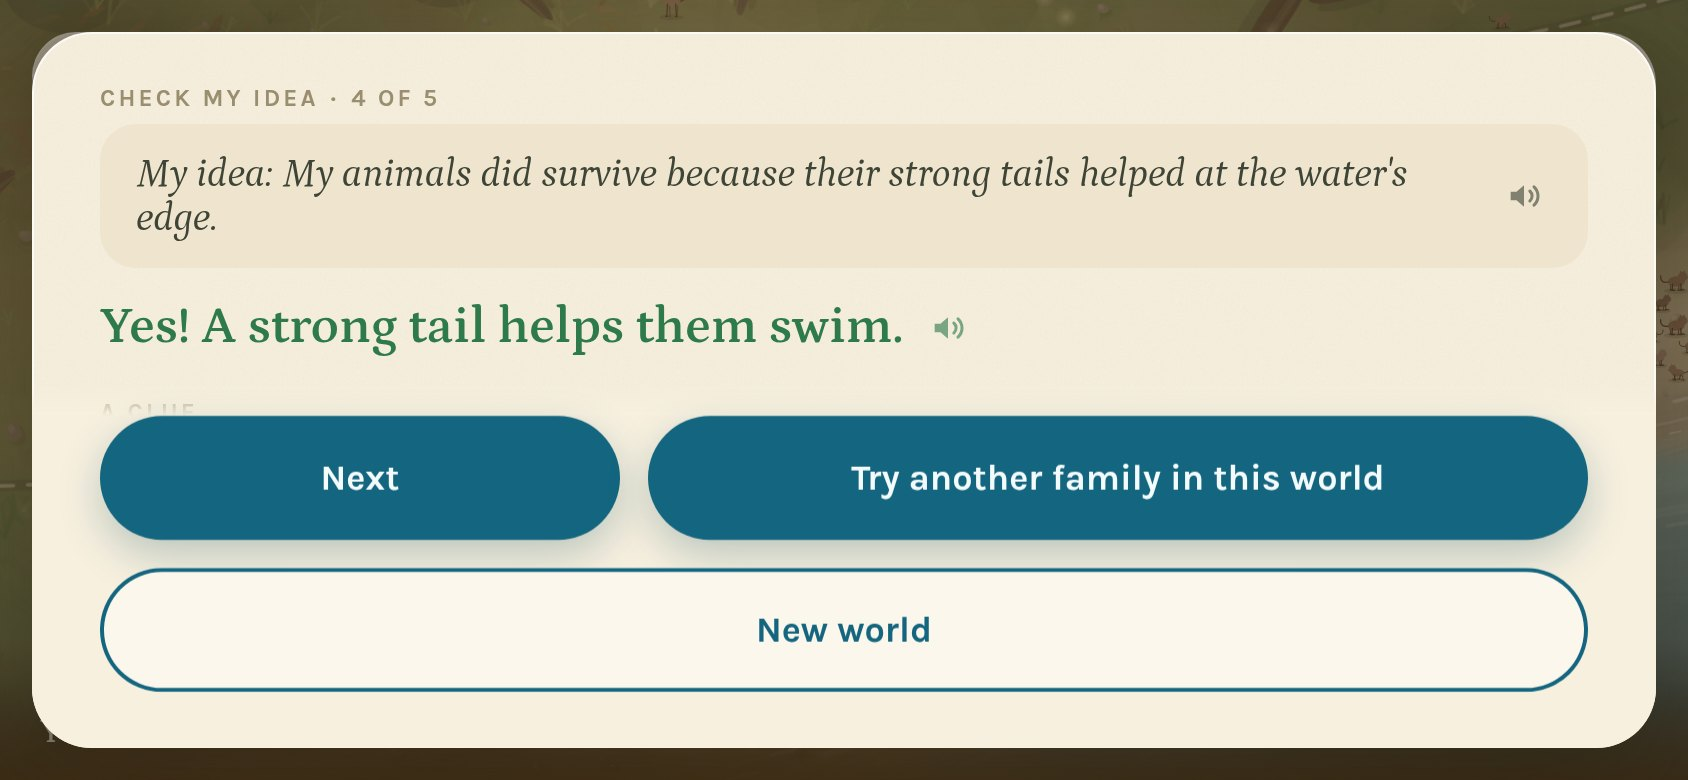
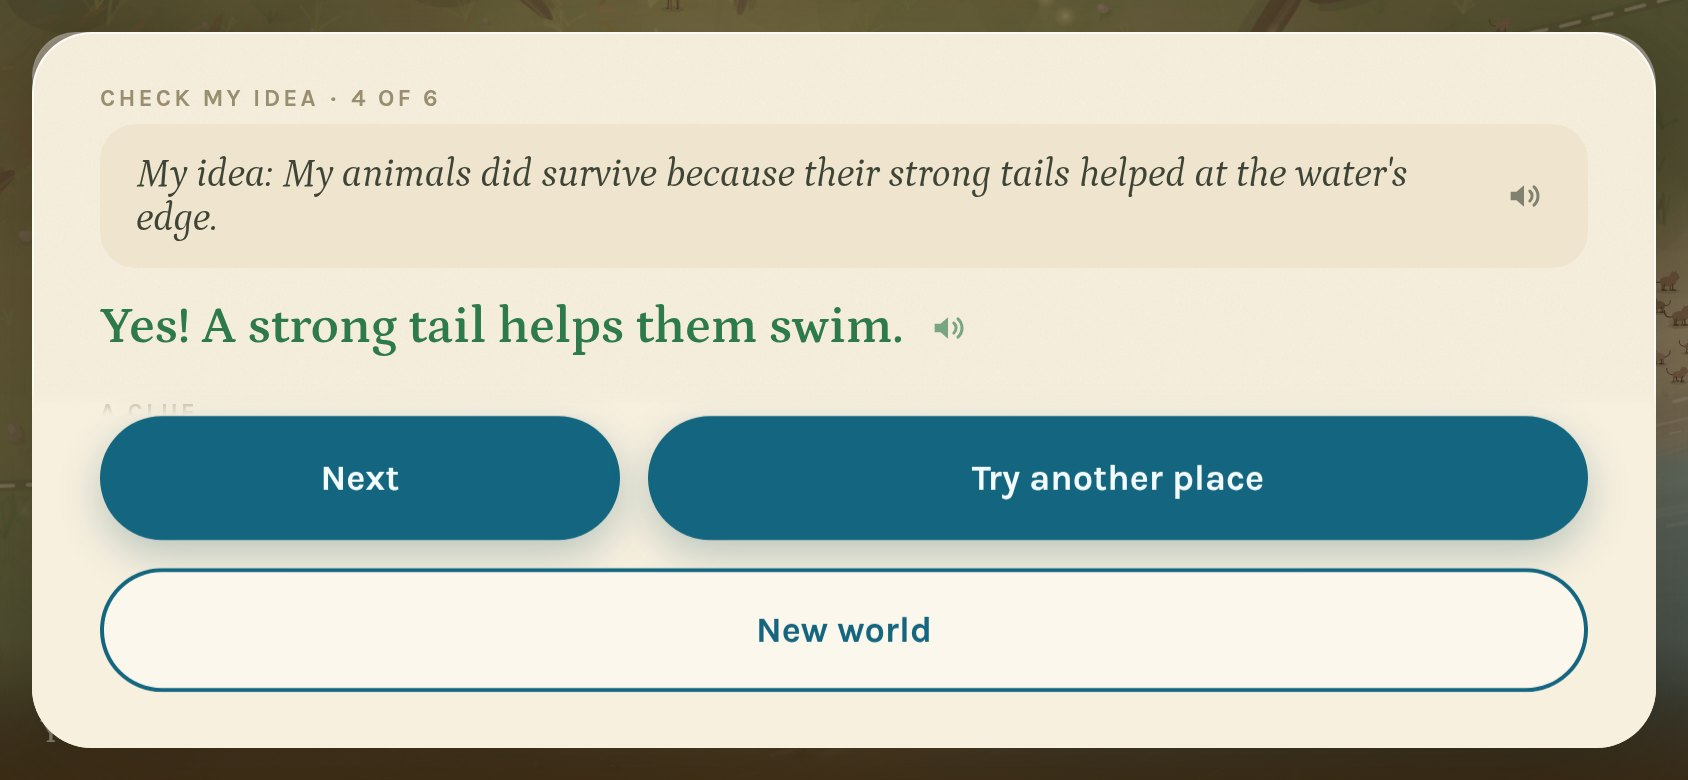
Round 5, Part 5: Try another place
Scope decision 76. After the reveal, "Try another place" starts a new
story in the same world from the same family: the same seed run again
to the generation the story began at (the same world, since following
never touches the biology), the same first animal, its name kept, and
"Where will your Mossfoot family live?" at once, so a child can compare
places. It takes the place of "Try another family" after any story
with a place chosen; the teacher demo keeps "Try another family".
"New world" stays.

New moment try-another-place; ending-check, ending-reveal and
story-card shot again with the new button. Tests: game 30 (1 new: the
replayed world is the same world).

Claude-Session: https://claude.ai/code/session_01GSopAEV6FFZ4i4mLAerJib

Changed region(s): [[0.4929, 0.5846, 0.8318, 0.6462], [0.9858, 0.3692, 1.0, 0.4308]]

diff --git a/game/src/main.js b/game/src/main.js
@@ -341,6 +341,7 @@ export class Game {
     this.logShownAt = 0;
     this.bloomLine = this.speakable($("bloom-line"));
     this.againEl = /** @type {HTMLButtonElement} */ ($("again"));
+    this.anotherPlaceEl = /** @type {HTMLButtonElement} */ ($("another-place"));
     this.newWorldEl = /** @type {HTMLButtonElement} */ ($("new-world"));
     // "This world is nearly over. Start a new world?" (scope decision 64)
     this.nearlyEl = $("nearly-over");
@@ -715,7 +716,11 @@ export class Game {
    * The first tap: follow the family of the tapped animal's ancestor a few
    * generations back. The child names it first; then time starts.
    */
-  begin(animal) {
+  /**
+   * @param {any} animal the animal tapped
+   * @param {null|string} [name] the family's name already ("Try another place", scope decision 76): no naming then
+   */
+  begin(animal, name = null) {
     const f = this.story.begin(animal.id);
     this.collectionButtonEl.hidden = true;
     this.closeCollection(true);
@@ -730,7 +735,13 @@ export class Game {
     this.exploring = false; this.visiting = null; // the child chose this family: the camera goes to it
     this.centerOnGroup();
     this.updateHud();
-    this.openNaming();
+    if (!name) { this.openNaming(); return; }
+    // The same family again (scope decision 76): its name stays, and the first choice comes at once.
+    this.story.name = name;
+    this.setHomeLabel();
+    this.updateHud();
+    this.updatePortrait();
+    if (this.story.phase === "place") this.openPlace();
   }
 
   /* ================= naming the family (Step 5, names.js) ================= */
@@ -1835,7 +1846,11 @@ export class Game {
       collection: COLLECTION_TITLE }[name];
     this.stepCountEl.textContent = `${k + 1} of ${this.endingSteps.length}`;
     this.endingNextEl.hidden = name === "idea" || k === this.endingSteps.length - 1;
-    this.againEl.hidden = this.newWorldEl.hidden = !this.ideaAnswered;
+    // After a story with a place chosen, "Try another place" (scope decision 76); in the teacher demo, "Try another family".
+    const placed = !!(this.story.home ?? this.story.homeTries.length);
+    this.anotherPlaceEl.hidden = !this.ideaAnswered || !placed;
+    this.againEl.hidden = !this.ideaAnswered || placed;
+    this.newWorldEl.hidden = !this.ideaAnswered;
     this.nearlyEl.hidden = true;
     this.endingEl.querySelector(".card").scrollTop = 0;
     if ((name === "reveal" && this.story.reveal) || (name === "result" && this.story.won)) this.sound.revealChord(0.4);
@@ -2067,15 +2082,40 @@ export class Game {
     });
   }
 
+  /**
+   * "Try another place" (scope decision 76): a new story in the same world, from the same family, with its name, and
+   * "Where will your … family live?" again, so the child can compare places (or try the same place another way). The
+   * world starts again where this story began: the same seed, run on to the same generation, which the engine makes
+   * the same world, since following never touches the biology.
+   */
+  anotherPlace(btn = this.anotherPlaceEl) {
+    const s = this.story, from = s.startGeneration, first = s.firstId, name = s.name;
+    this.busy(btn, "Going back…", () => {
+      this.endingEl.hidden = true;
+      const bridge = this.makeWorld(this.seed), herd = new Herd(this.world, 7919);
+      herd.placeFounders(bridge);
+      while (bridge.generation < from) {
+        const ev = bridge.step();
+        if (!ev) break;
+        herd.applyGeneration(ev, bridge, 0);
+      }
+      this.start(bridge, herd);
+      // No arrival: the family is chosen already, and the sheet comes at once.
+      if (this.arrival) { this.arrival.t0 = performance.now() - this.arrival.dur; this.endArrival(); }
+      const animal = this.herd.animals.get(first);
+      if (animal) this.begin(animal, name);
+    });
+  }
+
   /** "This world is nearly over. Start a new world?", with "New world" and a small "Keep going anyway", in place of the ending's buttons. */
   askNearlyOver() {
-    this.againEl.hidden = this.newWorldEl.hidden = this.endingNextEl.hidden = true;
+    this.againEl.hidden = this.anotherPlaceEl.hidden = this.newWorldEl.hidden = this.endingNextEl.hidden = true;
     this.nearlyEl.hidden = false;
   }
 
   /** The tapped button says what is happening, and the ending's buttons wait, while the page repaints; then it happens. */
   busy(btn, text, then) {
-    const label = btn.textContent, all = [this.againEl, this.newWorldEl, this.nearlyNewEl, this.nearlyKeepEl];
+    const label = btn.textContent, all = [this.againEl, this.anotherPlaceEl, this.newWorldEl, this.nearlyNewEl, this.nearlyKeepEl];
     btn.textContent = text;
     for (const b of all) b.disabled = true;
     setTimeout(() => {
@@ -3070,6 +3110,7 @@ export class Game {
     this.doc.getElementById("average-close").addEventListener("click", () => this.closeAverage());
     this.doc.addEventListener("keydown", (e) => { if (e.key === "Escape") { this.closeCard(); this.closeAverage(); this.closeGuide(); this.closeCollection(); } });
     this.againEl.addEventListener("click", () => this.anotherFamily());
+    this.anotherPlaceEl.addEventListener("click", () => this.anotherPlace());
     // Sound starts with the first tap anywhere (iPads allow it only then), and rests while the page is hidden.
     const unlock = () => this.sound.unlock();
     for (const type of ["pointerdown", "touchend", "click", "keydown"]) this.doc.addEventListener(type, unlock, { capture: true, passive: true });

diff --git a/game/src/moments.js b/game/src/moments.js
@@ -41,7 +41,7 @@ export const MOMENTS = [
   "same", "back", "go-back", "so-far", "another-family", "nearly-over",
   "reason", "why", "why-answer", "told", "type-name", "my-name", "average",
   "ending-idea", "ending-check", "ending-reveal", "story-card", "discovery", "guide", "leaves", "map",
-  "win", "still-changing", "collection", "chosen-by-place",
+  "win", "still-changing", "collection", "chosen-by-place", "try-another-place",
 ];
 
 /**
@@ -301,6 +301,11 @@ const MOMENT = {
     families: FROM_OTHERS, policies: ["active", "passive"],
     at: (s, ev, b, what) => what === null && s.phase === "watch" && s.placeChoseNow.length > 0 && { chosen: s.placeChoseNow.map((p) => p.t) },
   },
+  /**
+   * "Try another place" (scope decision 76): after the win, the same family again in the same world, its name kept,
+   * and "Where will your … family live?" again, once every card has a baby of the family.
+   */
+  "try-another-place": { families: FROM_OTHERS, policies: ["wise", "active", "passive"], at: (s, ev, b, what) => what === "ended" && s.won },
   /**
    * The collection after the win (scope decision 74): the ending's last step, the twelve cards with the animal the line
    * just became marked "New!", on a new iPad: "You've evolved 1 of 12."
@@ -758,6 +763,19 @@ export async function goToMoment(game, moment) {
     // The ending opens on its first step, the line's home (scope decision 73).
     G.endingAt = null;
     G.showEnding();
+  } else if (moment === "try-another-place") {
+    // The child gives an idea, then taps "Try another place": the sheet comes back once every card has its baby.
+    G.endingAt = null;
+    G.showEnding();
+    G.showStep("idea");
+    const t = truthOf(G.story);
+    G.ideaPicks.t.value = String(t.helper ?? t.hurter ?? 5);
+    G.ideaPicks.zone.value = String(t.zone);
+    G.ideaChanged();
+    G.answerIdea();
+    G.showStep("collection");
+    G.anotherPlace();
+    for (let k = 0; k < 600 && !(G.placing && G.placeCardEls.every((el) => el.baby !== null || el.hidden)); k++) await frame();
   } else if (moment === "collection") {
     // The story ended with the win as the game has it (its animal joined the collection): the ending's last step.
     G.endingAt = null;

diff --git a/game/test/win.test.js b/game/test/win.test.js
@@ -141,3 +141,29 @@ test("chosen by the place: a trait that helps there, risen in the line without a
   assert.equal(N.placeChoseLine(0, [{ trait: "curved_claws", dir: 1 }, { trait: "toe_webbing", dir: -1 }, { trait: "streamlined_body", dir: -1 }]),
     "The trees chose curved claws, toes without webbing and a round body too.");
 });
+
+test("try another place: the same seed run on to a story's start is the same world, so the same family can choose again", async () => {
+  const { Bridge } = await import("../src/bridge.js");
+  const { Story } = await import("../src/story.js");
+  // A story played to its end, and the world run again with no one following, to the story's last generation.
+  const played = Bridge.fromAncestor(13), story = new Story(played, { places: true });
+  story.begin(played.families.founding[1].ids[0]);
+  while (story.phase !== "ended") {
+    if (story.phase === "place") { if (story.placeCards()[2]) { story.choosePlace(2); continue; } }
+    else if (story.phase === "choice") { story.follow(story.options.find((o) => story.helps(o.v)), false); continue; }
+    story.afterGeneration(played.step());
+  }
+  const again = Bridge.fromAncestor(13);
+  while (again.generation < played.generation) again.step();
+  // Following never touches the biology: the same animals, with the same bodies, live in both.
+  const body = (b) => b.livingAnimals().map((a) => `${a.id}:${Array.from(a.genome).map((x) => x.toFixed(6)).join(",")}`).sort();
+  assert.deepEqual(body(again), body(played));
+  // The story's first animal is there at its start, so "Try another place" begins the same family again.
+  const atStart = Bridge.fromAncestor(13);
+  while (atStart.generation < story.startGeneration) atStart.step();
+  assert.ok(atStart.get(story.firstId));
+  const replay = new Story(atStart, { places: true });
+  replay.begin(story.firstId);
+  assert.equal(replay.phase, "place");
+  assert.equal(replay.ownFounding, story.ownFounding);
+});

diff --git a/game/moments.html b/game/moments.html
@@ -107,6 +107,7 @@
     <li><a data-moment="map" href="./?moment=map"><b>The map</b><span>Zoomed out: the places' names and the borders between them.</span></a></li>
     <li><a data-moment="win" href="./?moment=win"><b>The win</b><span>Your line fits its home: "You did it!", the animal it became, what you followed and why.</span></a></li>
     <li><a data-moment="chosen-by-place" href="./?moment=chosen-by-place"><b>Chosen by the place</b><span>A trait that helps here rose in your line without a follow: its own chip, and “The water is choosing too.”</span></a></li>
+    <li><a data-moment="try-another-place" href="./?moment=try-another-place"><b>Try another place</b><span>After the win: the same family, its name kept, chooses where to live again.</span></a></li>
     <li><a data-moment="collection" href="./?moment=collection"><b>The collection</b><span>After the win: the twelve animals, the one your line became marked “New!”, the rest mystery cards.</span></a></li>
     <li><a data-moment="still-changing" href="./?moment=still-changing&amp;length=25"><b>Still changing</b><span>The story's last generation, short of the win: "Keep going next time?" and the animal it looks most like.</span></a></li>
   </ol>

diff --git a/design/compare.html b/design/compare.html
@@ -111,6 +111,7 @@
     ["map", "The map", "New with the next round: the places' names and the borders between them.", false, R],
     ["chosen-by-place", "Chosen by the place", "New with Round 5: a trait that helps rose in your line without a follow, “Strong tail: chosen by the water”.", false, G],
     ["win", "The win", "New with Round 5: your line fits its home. “You did it!”, the animal it became, what you followed and why.", false, G],
+    ["try-another-place", "Try another place", "New with Round 5: after the win, the same family in the same world chooses where to live again.", false, G],
     ["collection", "The collection", "New with Round 5: after the win, the twelve animals you can become, yours marked “New!”, the rest mystery cards.", false, G],
     ["still-changing", "Still changing", "New with Round 5: the story's last generation, short of the win: “Keep going next time?”", false, G],
     ["ending", "The ending: what happened", "The start and the end, your line baby by baby, your line and your relatives here; since Round 5 after the win."],

diff --git a/game/index.html b/game/index.html
@@ -269,6 +269,8 @@
       </section>
       <div class="buttons">
         <button id="ending-next" type="button">Next</button>
+        <!-- After a story with a place chosen: the same family again, in the same world, choosing its place again (scope decision 76). -->
+        <button id="another-place" type="button" hidden>Try another place</button>
         <button id="again" type="button" hidden>Try another family in this world</button>
         <button id="new-world" type="button" hidden>New world</button>
         <!-- "Try another family" with fewer than 25 generations of the story left in this world (scope decision 64). -->

diff --git a/LINEAGE_M2_CLASSROOM_SCOPE.md b/LINEAGE_M2_CLASSROOM_SCOPE.md
@@ -784,6 +784,14 @@ LINEAGE should feel like a quiet nature documentary. It is set at golden hour an
    - *Frame times (as decision 73): `chosen-by-place` 36.0 ms (206.4 with a 4× slower CPU) against main's `generation` 41.3 (209.4).*
    - *Checked: 29 game tests, 1 new (each place chip is a trait that helps there, the way it helps, never one the child followed, shown once; its lines short; a win with place chips says them). The lines read with the longest family name.*
 
+76. **"Try another place"** (2026-10-02, the architect's Round 5, Part 5; built by Claude Code).
+   - **What it does** (`main.js` `anotherPlace`). After the reveal (once the child gave an idea, like the other buttons), "Try another place" starts a new story in the same world from the same family: the same seed, run again to the generation the story began at, which the engine makes the same world (following never touches the biology; a test checks it), and the same first animal tapped. The family keeps its name, so there is no naming, and "Where will your … family live?" comes at once: Choice 1 again, to compare places, or to try the same place another way. No arrival mist. "New world" stays.
+   - **It takes the place of "Try another family in this world"** after any story with a place chosen, so the ending offers two ways on: "Try another place" and "New world". The teacher demo, which has no place choice, keeps "Try another family" (and its "This world is nearly over" question).
+   - **Moment:** new `try-another-place` (after the win in seed 13: the sheet again, "Where will your … family live?", once every card has its baby). `ending-check`, `ending-reveal` and `story-card` shot again with the new button.
+   - *Frame times (as decision 73): `try-another-place` 33.8 ms (176.1 with a 4× slower CPU) against main's `choose-place` 35.4 (163.3), the same sheet.*
+   - *Checked: 30 game tests, 1 new (the same seed run again to a story's last generation, with no one following, has the same animals with the same bodies as the world the story ran; and the story's first animal is there at its start, so the same family begins again, at the place choice).*
+   - **For the architect.** Bring back "Try another family" beside "Try another place", or keep two buttons?
+
 ## What the engine already gives you (do not rebuild these)
 
 - `advanceGeneration(state, config, hooks)` — runs one generation; `hooks` receive birth and death events.

diff --git a/design/after/README.md b/design/after/README.md
@@ -1,5 +1,7 @@
 # LINEAGE — the live build, moment by moment (after Step 5)
 
+**Round 5, Part 5 (scope decision 76):** `try-another-place` is new: after the win, "Try another place" brings the same family back in the same world, its name kept, at "Where will your … family live?" (1.5 s after every card has its baby). `ending-check`, `ending-reveal` and `story-card` are shot again: after a story with a place chosen, the ending's buttons are "Try another place" and "New world". The rest are Part 4's pictures.
+
 **Round 5, Part 4 (scope decision 75):** `chosen-by-place` is new: a trait that helps in the line's place rose in it without a follow, "Short legs: chosen by the water" as an outlined chip on "Your … line so far", and "The water is choosing too." (1.5 s). `win` and `ending` are shot again: "The water chose short legs, a strong tail and straighter claws too." in the celebration, and the place's chips under "You chose". The rest are Part 3's pictures.
 
 **Round 5, Part 3 (scope decision 74):** `collection` is new: after the win, the ending's last step shows the twelve cards, the animal the line just became "New!" with its picture, the rest mystery cards with their place's mark ("You've evolved 1 of 12.", 2.5 s). `win`, `still-changing` and `ending-reveal` are shot again: the real animal's card beside the line's drawing, and its picture in the reveal. The rest are Part 2's pictures.

diff --git a/game/README.md b/game/README.md
@@ -186,8 +186,9 @@ A story takes a median 14.7 minutes, with a median of 5 traits added up and 5 "W
     relatives here); and the reveal (the real animal the line became like, one of the
     collection's twelve, `docs/LINEAGE_REAL_ANIMAL_REVEAL.md`: the free traits the child chose
     decide it first; then its traits, the predictions and choices, the Field Guide and the story
-    card). "Try another family" (the world
-    as it is now; at the story's end, the same seed from generation 0) and "New world".
+    card). "Try another place" (scope decision 76: the same family in the same world, its name
+    kept, choosing where to live again) and "New world"; the teacher demo keeps "Try another
+    family" (the world as it is now; at the story's end, the same seed from generation 0).
 11. **The collection** (scope decision 74, `src/collection.js`). The twelve animals a line can
     become, four to a row and a row for each place: one becomes "evolved" on this iPad when a line
     becomes it at the win, and its card shows its picture (`animals/<id>.jpg`), name and place mark;
